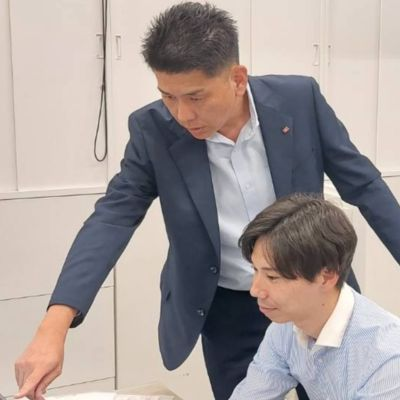
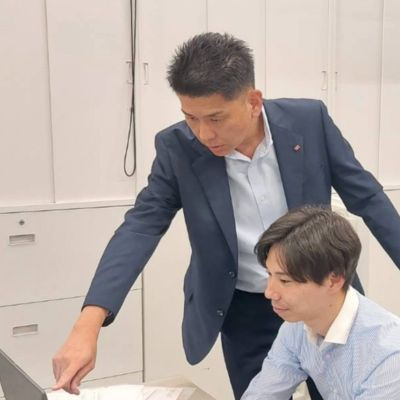
1.54

diff --git a/interveiw01.html b/interveiw01.html
@@ -78,7 +78,9 @@
                 <h2><span class="title-red">I</span>NTERVIEW</h2>
                 <p class="section-title-text">先輩たちの声</p>
             </div>
-            <div class="voice-message-item"></div>
+            <div class="interview-container">
+                <img class="interview-image" src="image/WV_takeda03.jpg" alt="先輩社員の声1-3">
+            </div>
             <p class="voice-message-item-name honoka">岡崎支店 支店長　竹田さん</p>
         </div>
     </div>
@@ -86,7 +88,7 @@
     <div class="content">
         <div class="interview-content">
             <div class="voice-modal-content">
-                <div class="business-content-item-left fadein">
+                <div class="business-content-item-left load-fadein">
                     <img src="image/WV_takeda01.jpg" alt="先輩社員の声1-1">
                     <div class="business-content-item-text">
                         <h3 class="title3 honoka">

diff --git a/styles/section-working.css b/styles/section-working.css
@@ -268,9 +268,31 @@
 }
 
 .voice-message-item-name {
+    font-size: 1.5rem;
     text-align: right;
 }
 
+.interview-container {
+    position: relative;
+    width: 400px;
+    height: 400px;
+    margin: -100px auto -20px auto;
+}
+
+.interview-container::after {
+    position: absolute;
+    content: '';
+    top: 0;
+    bottom: 0;
+    left: 0;
+    right: 0;
+    box-shadow: inset 0 0 15px 15px #ffffff;
+}
+
+.interview-image {
+    width: 100%;
+    height: 100%;
+}
 
 @media screen and (max-width: 768px) {
     .working-style-voice-item {
@@ -317,6 +339,16 @@
         & p {
             font-size: 1.125rem;
         }
+    }
+
+    .voice-message-item-name {
+        font-size: 1rem;
+    }
+
+    .interview-container {
+        width: 300px;
+        height: 300px;
+        margin: -1rem auto 1rem auto;
     }
 
 }
